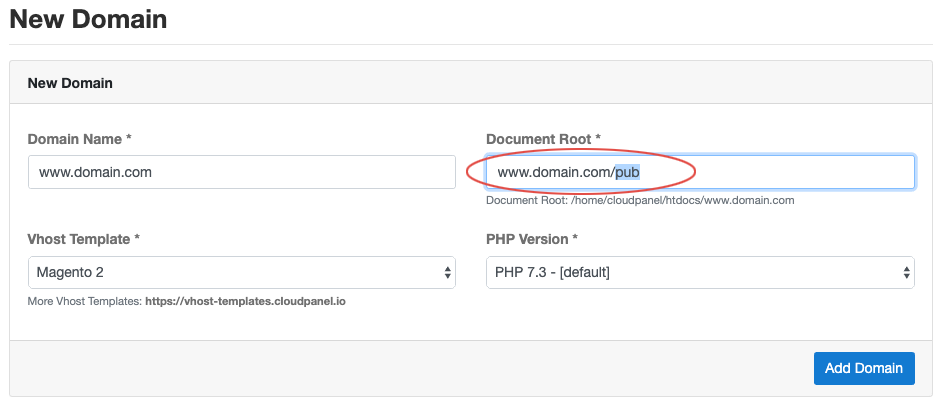
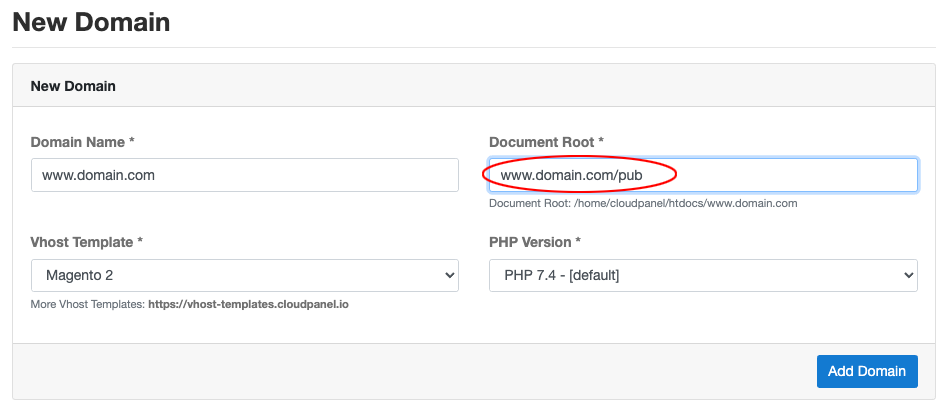
.

diff --git a/cloudpanel-ce/docs/application-magento-2.md b/cloudpanel-ce/docs/application-magento-2.md
@@ -12,6 +12,14 @@ On this page, we explain step by step how to setup **Magento 2** with **CloudPan
 
 In the following example we will setup a **Magento 2** shop under the domain ***www.domain.com***.
 
+## Elasticsearch
+
+The latest **Magento 2** version requires **Elasticsearch 7.9**.
+
+A step by step guide how to install **Elasticsearch 7.9** on **Debian 10** can be found on the following site: 
+
+[https://www.elastic.co/guide/en/elasticsearch/reference/7.9/deb.html](https://www.elastic.co/guide/en/elasticsearch/reference/7.9/deb.html)
+
 ### Preparation
 
 Before we can start with the installation of a **Magento 2** shop, we need to create an [SSH User](users#adding-a-user), a [Database](databases#adding-a-database) <br />
@@ -19,7 +27,7 @@ and a [Domain](domains#adding-a-domain).
 
 When you [Add the Domain](domains#adding-a-domain), make sure to select the **Magento 2 Vhost Template** and the right **PHP Version**.
 
-<img class="border" src={useBaseUrl('img/v1/applications/magento-2/new_domain.png')} /> <br /><br />
+<img class="border" src={useBaseUrl('img/v1/applications/magento-2/new_domain.png?v=1')} /> <br /><br />
 
 :::warning Document Root
 Make sure to point the **Document Root** to the **pub** directory.
@@ -46,7 +54,7 @@ rm -rf /home/cloudpanel/htdocs/www.domain.com
 Before you run the **composer** command, make sure to have [Magento Authentication Keys](https://devdocs.magento.com/guides/v2.3/install-gde/prereq/connect-auth.html) created.
 
 ```
-php7.3 /usr/local/bin/composer create-project --repository-url=https://repo.magento.com/ magento/project-community-edition www.domain.com
+php7.4 /usr/local/bin/composer create-project --repository-url=https://repo.magento.com/ magento/project-community-edition www.domain.com
 ```
 
 Enter the **Username** and **Password** (Authentication Keys) and press enter.
@@ -64,7 +72,7 @@ Edit the parameters like **key**, **db-host**, **db-name** and so on to your nee
 :::
 
 ```
-php7.3 bin/magento setup:install --backend-frontname='admin' --key='18Av6ITivOZG3gwY1DhMDWtlLfx1spLP' --session-save='files' --db-host='127.0.0.1' --db-name='magento2' --db-user='magento2' --db-password='magento2' --base-url='https://www.domain.com/' --base-url-secure='https://www.domain.com/' --admin-user='admin' --admin-password='!admin123!' --admin-email='john@doe.com' --admin-firstname='John' --admin-lastname='Doe'
+php7.4 bin/magento setup:install --backend-frontname='admin' --key='18Av6ITivOZG3gwY1DhMDWtlLfx1spLP' --session-save='files' --db-host='127.0.0.1' --db-name='magento2' --db-user='magento2' --db-password='magento2' --base-url='https://www.domain.com/' --base-url-secure='https://www.domain.com/' --admin-user='admin' --admin-password='!admin123!' --admin-email='john@doe.com' --admin-firstname='John' --admin-lastname='Doe'
 ```
 
 5. Reset permissions.

diff --git a/cloudpanel-ce/docs/application-matomo-3.md b/cloudpanel-ce/docs/application-matomo-3.md
@@ -34,13 +34,13 @@ cd ~/tmp
 2. Download and extract the latest **Matomo 3** version.
 
 ```
-curl -sL https://github.com/matomo-org/matomo/archive/3.13.6.tar.gz | tar xfz -
+curl -sL https://github.com/matomo-org/matomo/archive/3.14.0.tar.gz | tar xfz -
 ```
 
 3. Move files to the **htdocs** directory of the domain:
 
 ```
-cp -R matomo-3.13.6/* /home/cloudpanel/htdocs/www.domain.com/
+cp -R matomo-3.14.0/* /home/cloudpanel/htdocs/www.domain.com/
 ```
 
 4. Install via **composer**:
